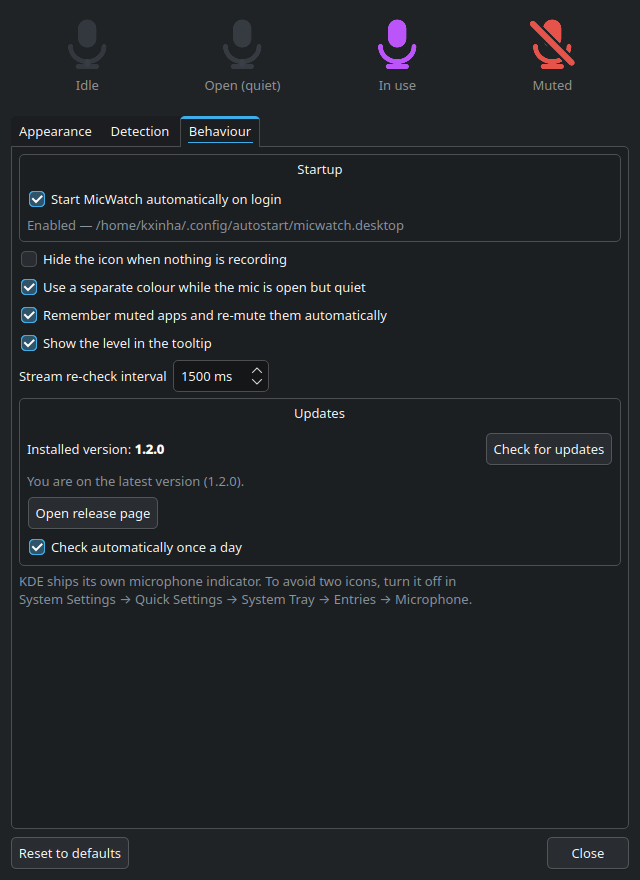
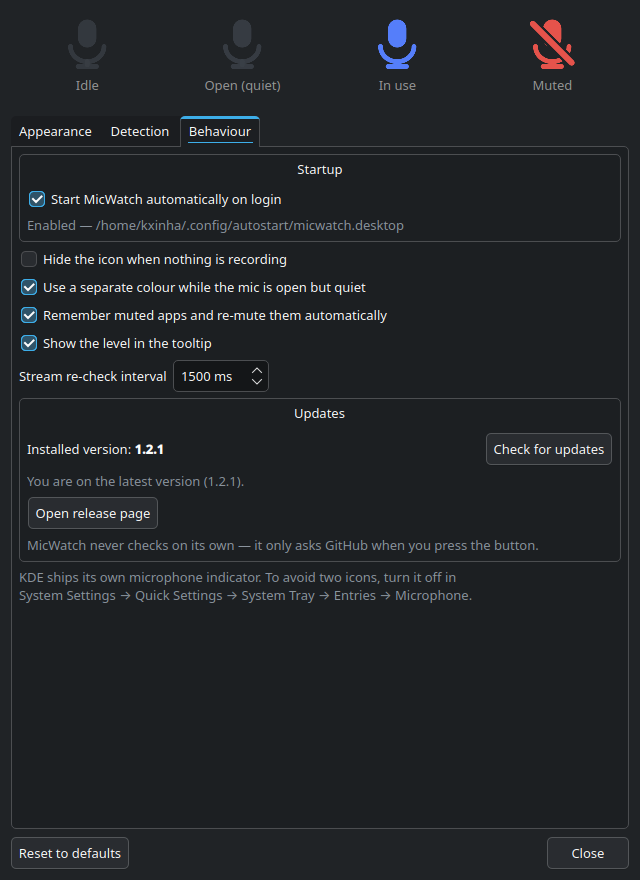
Check for updates only when the user asks
The daily background check went away: no timer at startup, no check_updates
or last_update_check settings, no checkbox. A check now happens only when the
button in Settings is pressed or Check for updates is picked in the tray menu,
and the settings window reports the result inline instead of popping a dialog.

Claude-Session: https://claude.ai/code/session_01Cjy9rEPMqZ8XMghtAsU7AD

Changed region(s): [[0.0312, 0.6136, 0.8438, 0.7057], [0.5938, 0.0, 0.6562, 0.092], [0.3438, 0.5216, 0.375, 0.5523]]

diff --git a/micwatch/tray.py b/micwatch/tray.py
@@ -40,8 +40,8 @@ class MicWatchTray(QObject):
         self._last_above = 0.0
         self._preview = False
         self._settings = None
-        self._manual_check = False
-        self.release = None          # set once a newer release is found
+        self._announce = True
+        self.release = None          # set once a check finds a newer release
 
         self.monitor = MicMonitor(config, self)
         self.monitor.changed.connect(self._on_streams)
@@ -59,7 +59,6 @@ class MicWatchTray(QObject):
 
         self.updates = updates.UpdateChecker(self)
         self.updates.checked.connect(self._on_update_checked)
-        QTimer.singleShot(20000, self._check_updates_if_due)
 
         self.monitor.start()
         self._refresh_all()
@@ -127,7 +126,7 @@ class MicWatchTray(QObject):
         menu.addAction(self._autostart_action)
 
         check_action = QAction("Check for updates…", menu)
-        check_action.triggered.connect(lambda: self.check_updates(manual=True))
+        check_action.triggered.connect(lambda: self.check_updates())
         menu.addAction(check_action)
 
         about_action = QAction(f"About {APP_NAME}", menu)
@@ -198,35 +197,19 @@ class MicWatchTray(QObject):
         )
 
     # -- updates ---------------------------------------------------------
-    def _check_updates_if_due(self) -> None:
-        if not self.config["check_updates"]:
-            return
-        if time.time() - float(self.config["last_update_check"]) < 86400:
-            return
-        self.check_updates()
-
-    def check_updates(self, manual: bool = False) -> None:
-        self._manual_check = manual
+    # Nothing here ever runs on its own: a check happens only when the user
+    # clicks "Check for updates", in the tray menu or in the settings window.
+    def check_updates(self, announce: bool = True) -> None:
+        self._announce = announce
         self.updates.check()
 
     def _on_update_checked(self, release, newer: bool) -> None:
-        manual = getattr(self, "_manual_check", False)
-        self._manual_check = False
-        if release is not None:
-            self.config["last_update_check"] = time.time()
-            self.config.save()
+        announce, self._announce = self._announce, True
         self.release = release if newer else None
         self._rebuild_menu()
         if self._settings is not None:
             self._settings.show_update_result(release, newer)
-        if not manual:
-            if newer:
-                self.tray.showMessage(
-                    APP_NAME,
-                    f"MicWatch {release.version} is available — right-click the tray icon.",
-                    self.tray.icon(),
-                    8000,
-                )
+        if not announce:
             return
         if release is None:
             QMessageBox.warning(

diff --git a/micwatch/settings.py b/micwatch/settings.py
@@ -589,10 +589,13 @@ class SettingsWindow(QWidget):
         actions.addStretch(1)
         box_layout.addLayout(actions)
 
-        self.auto_check = QCheckBox("Check automatically once a day")
-        self.auto_check.setChecked(bool(self.config["check_updates"]))
-        self.auto_check.toggled.connect(lambda v: self._set("check_updates", bool(v)))
-        box_layout.addWidget(self.auto_check)
+        hint = QLabel(
+            "MicWatch never checks on its own — it only asks GitHub when you press "
+            "the button."
+        )
+        hint.setWordWrap(True)
+        hint.setStyleSheet("color: #8b949e;")
+        box_layout.addWidget(hint)
         layout.addWidget(box)
 
         note = QLabel(
@@ -706,7 +709,7 @@ class SettingsWindow(QWidget):
         self.check_button.setEnabled(False)
         self.check_button.setText("Checking…")
         self.update_status.setText("Asking GitHub for the latest release…")
-        self.tray.check_updates()
+        self.tray.check_updates(announce=False)
 
     def show_update_result(self, release, newer: bool) -> None:
         """Called by the tray when a check finishes, manual or automatic."""

diff --git a/micwatch/config.py b/micwatch/config.py
@@ -44,10 +44,6 @@ DEFAULTS: dict = {
     "muted_apps": [],             # apps kept muted, by application name
     "remember_mutes": True,       # re-apply those mutes to new streams
     "poll_ms": 1500,              # safety-net poll on top of pactl events
-
-    # --- updates ---
-    "check_updates": True,        # ask GitHub for a newer release once a day
-    "last_update_check": 0.0,
 }
 
 

diff --git a/micwatch/__init__.py b/micwatch/__init__.py
@@ -1,3 +1,3 @@
 """MicWatch — a microphone in-use tray indicator for PipeWire."""
 
-__version__ = "1.2.0"
+__version__ = "1.2.1"

diff --git a/README.md b/README.md
@@ -33,9 +33,9 @@ curl -fsSL https://raw.githubusercontent.com/gabrielmf1998/MicWatch-KDE/main/ins
 Or grab a package from the [latest release](https://github.com/gabrielmf1998/MicWatch-KDE/releases/latest):
 
 ```sh
-sudo dnf install ./micwatch-kde-1.2.0-1.fc46.noarch.rpm       # Fedora
-sudo apt install ./micwatch-kde_1.2.0-1_all.deb               # Debian / Ubuntu
-sudo pacman -U ./micwatch-kde-1.2.0-1-any.pkg.tar.zst         # Arch
+sudo dnf install ./micwatch-kde-1.2.1-1.fc46.noarch.rpm       # Fedora
+sudo apt install ./micwatch-kde_1.2.1-1_all.deb               # Debian / Ubuntu
+sudo pacman -U ./micwatch-kde-1.2.1-1-any.pkg.tar.zst         # Arch
 chmod +x MicWatch-KDE-x86_64.AppImage && ./MicWatch-KDE-x86_64.AppImage
 ```
 
@@ -117,7 +117,8 @@ stops metering — it will not open the microphone to measure something that is 
   **swing**, **zoom**, **orbit** and **VHS tracking** — or none at all.
 - **Full colour control** — one colour per state (idle, quiet, in use, muted), hex field,
   colour picker and 24 presets.
-- **Built-in update check** — one button, or a quiet daily check, and a one-click upgrade.
+- **Update check on demand** — one button, one click to upgrade, and nothing runs in the
+  background unless you ask.
 - **User-defined threshold in dBFS** — live meter on a dB scale (−60 … 0 dB), a numeric
   readout, and a *Set just above noise* button.
 - **Pick which input to measure** — follow the recording app, or pin one device.
@@ -131,19 +132,16 @@ stops metering — it will not open the microphone to measure something that is 
 
 ## Staying up to date
 
-MicWatch can tell you when there is a new release:
+MicWatch **never phones home on its own** — there is no background check, no timer and no
+telemetry. It looks for a new release only when you press the button:
 
 - **Settings → Behaviour → Updates → Check for updates**, or **Check for updates…** in the
   tray menu.
-- With *Check automatically once a day* on (the default) it asks GitHub quietly in the
-  background and, when something newer exists, the tray menu grows an
-  **Update to vX.Y.Z…** entry and a notification appears.
+- If something newer exists, you get the release notes and the tray menu keeps an
+  **Update to vX.Y.Z…** entry for the rest of the session.
 - **Update now** opens a terminal running the installer for your distro, so you can type
   your password and watch it happen. Running from the AppImage, it downloads the new
   AppImage and replaces the one you are running instead.
-
-The check is a single anonymous request to the GitHub releases API; turn it off with the
-checkbox if you would rather not.
 
 ## Privacy
 
